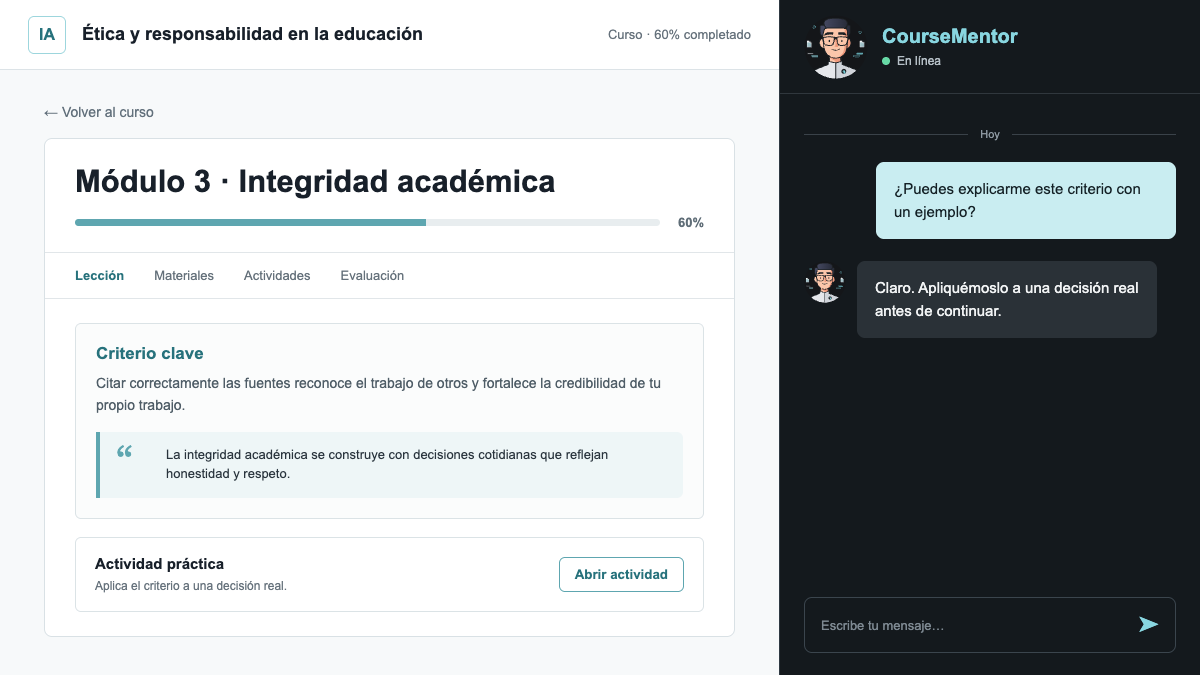
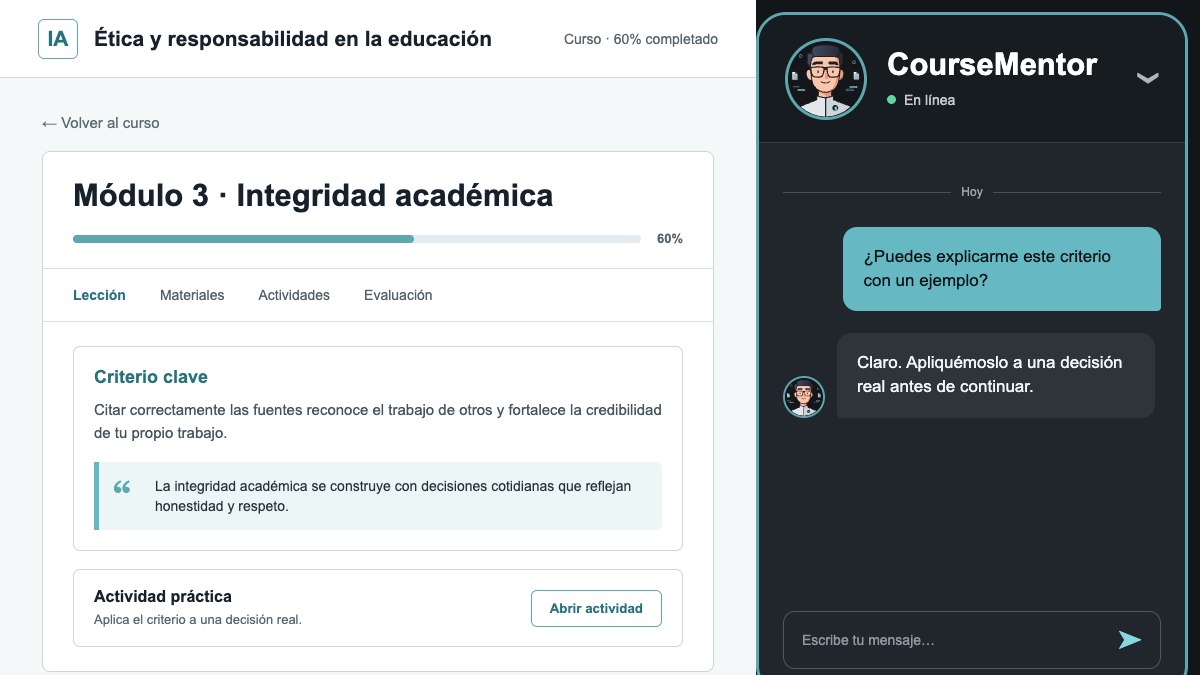
Match newsletter brand references

diff --git a/supabase/functions/_shared/newsletter-template.ts b/supabase/functions/_shared/newsletter-template.ts
@@ -161,7 +161,7 @@ export function renderNewsletterHtml(options: RenderOptions) {
                             <a href="${escapeHtml(linkedinUrl)}" style="display:inline-block;padding:11px 18px;color:#ffffff;text-decoration:none;font-size:14px;font-weight:800;">
                               <table role="presentation" cellspacing="0" cellpadding="0">
                                 <tr>
-                                  <td style="padding-right:9px;vertical-align:middle;"><img src="${siteUrl}/images/newsletter/linkedin-outline.png" width="22" height="22" alt="LinkedIn" style="display:block;width:22px;height:22px;border:0;" /></td>
+                                  <td style="padding-right:9px;vertical-align:middle;"><img src="${siteUrl}/images/newsletter/linkedin.png" width="22" height="22" alt="LinkedIn" style="display:block;width:22px;height:22px;border:0;" /></td>
                                   <td style="color:#ffffff;font-size:14px;font-weight:800;vertical-align:middle;">Seguir a Rasika en LinkedIn</td>
                                 </tr>
                               </table>
